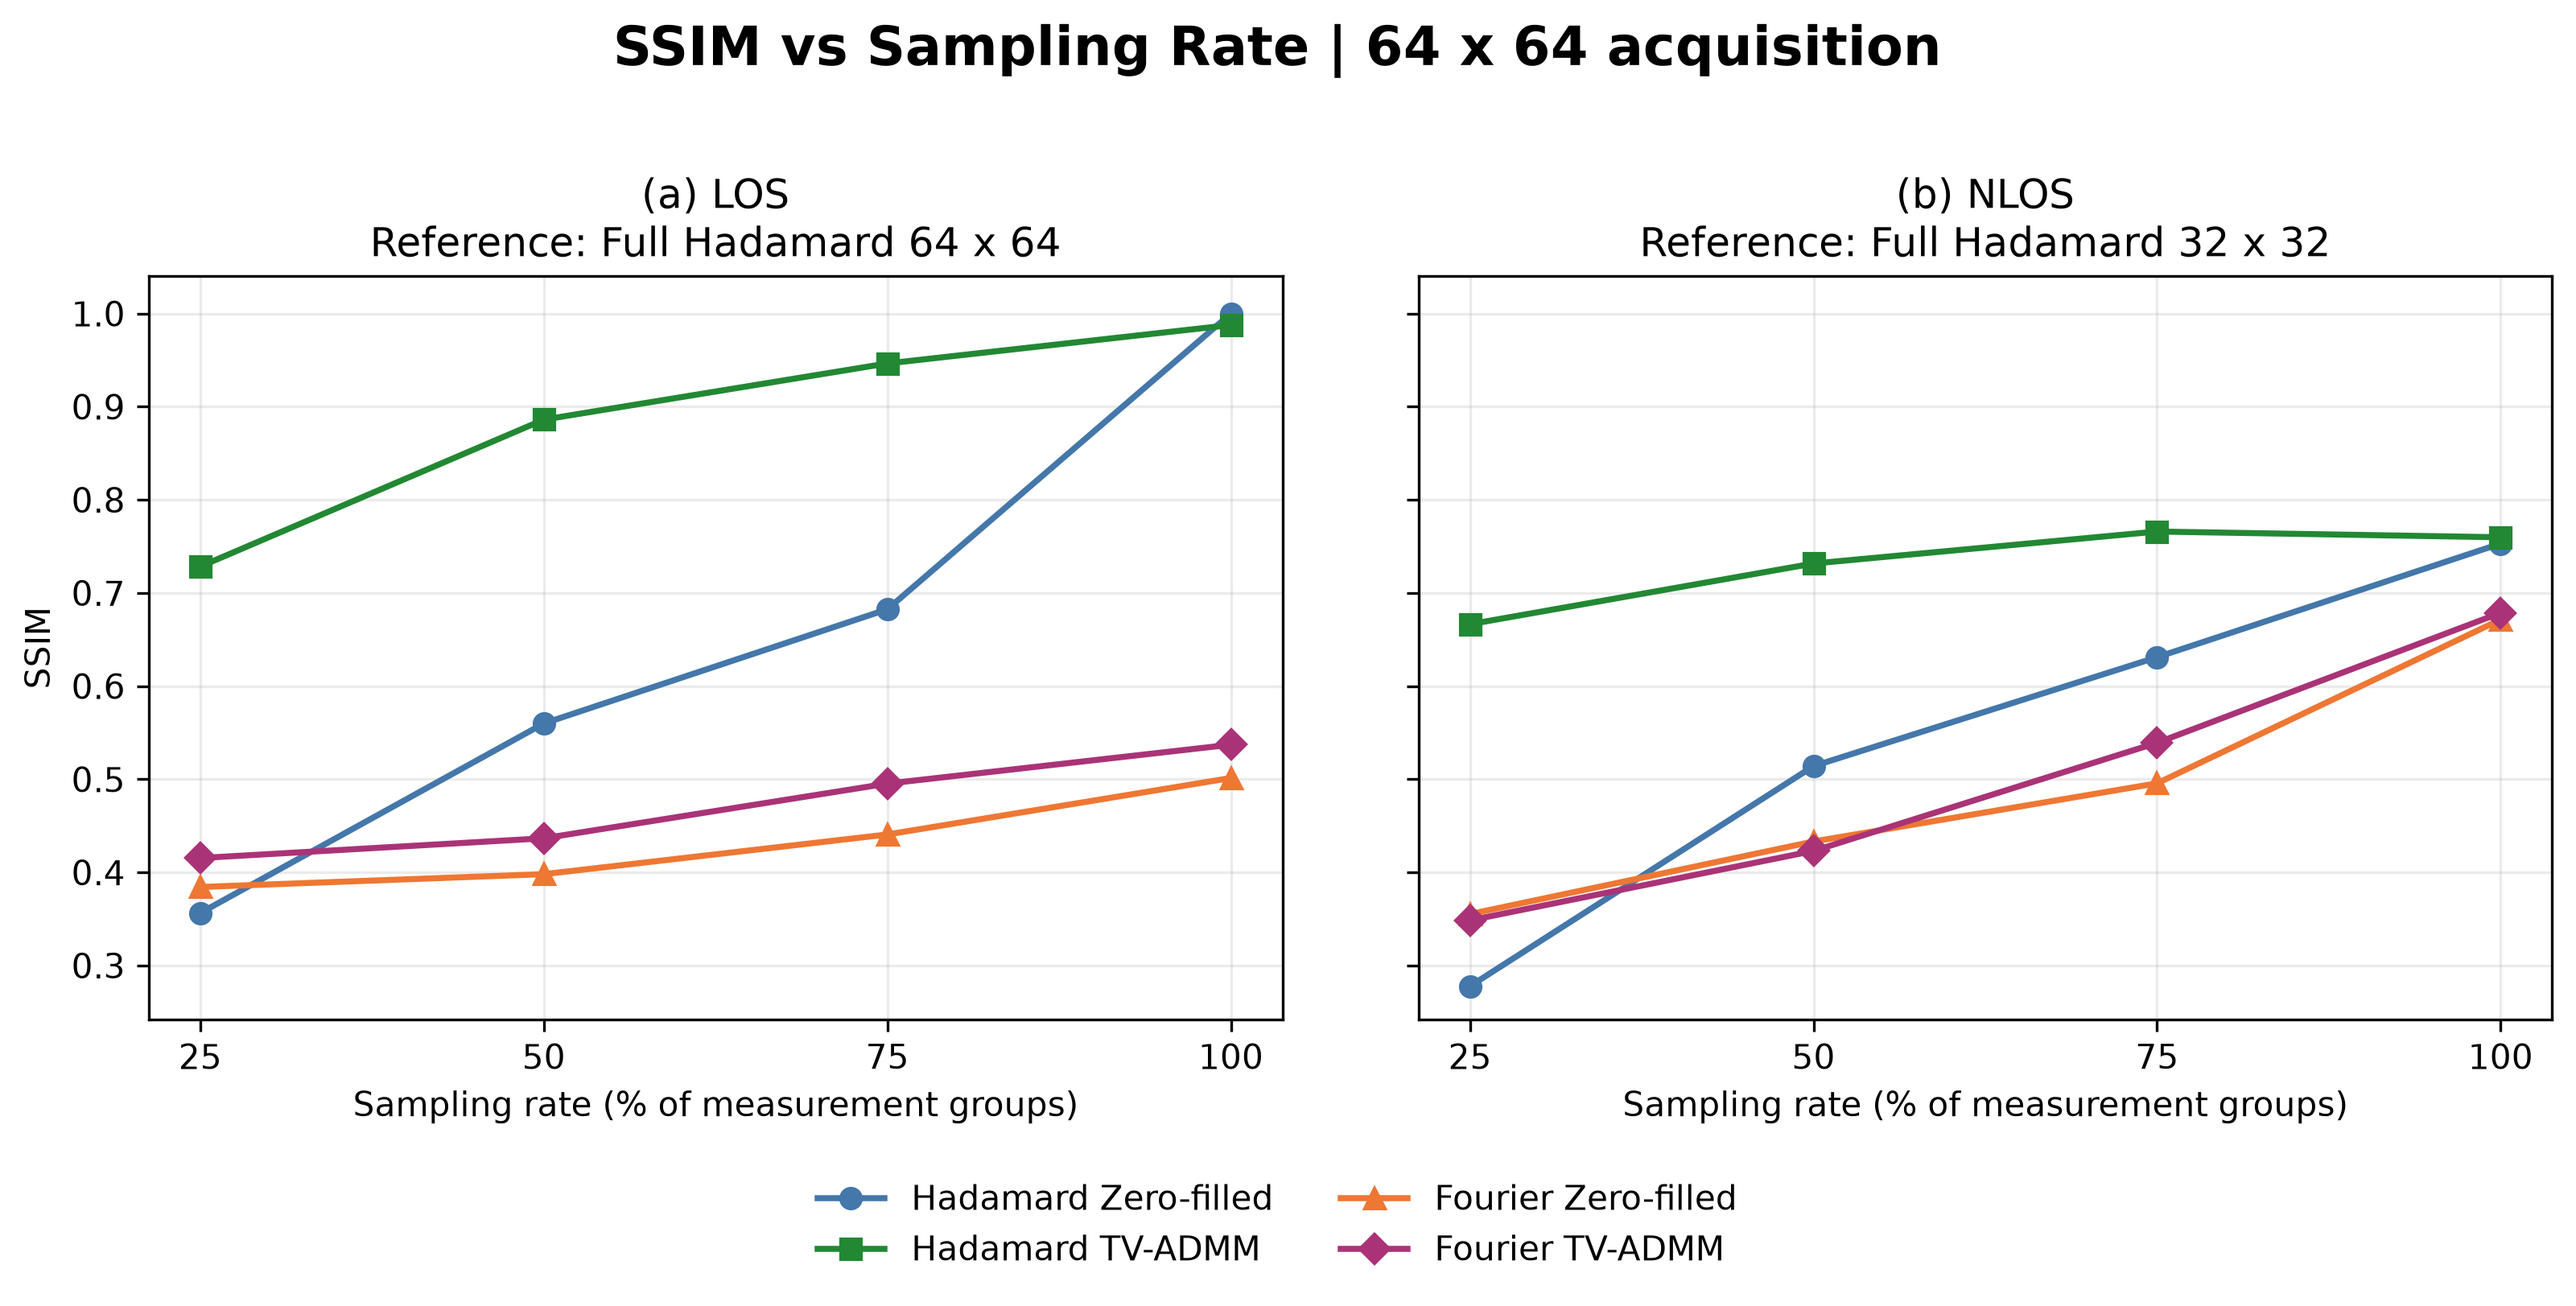
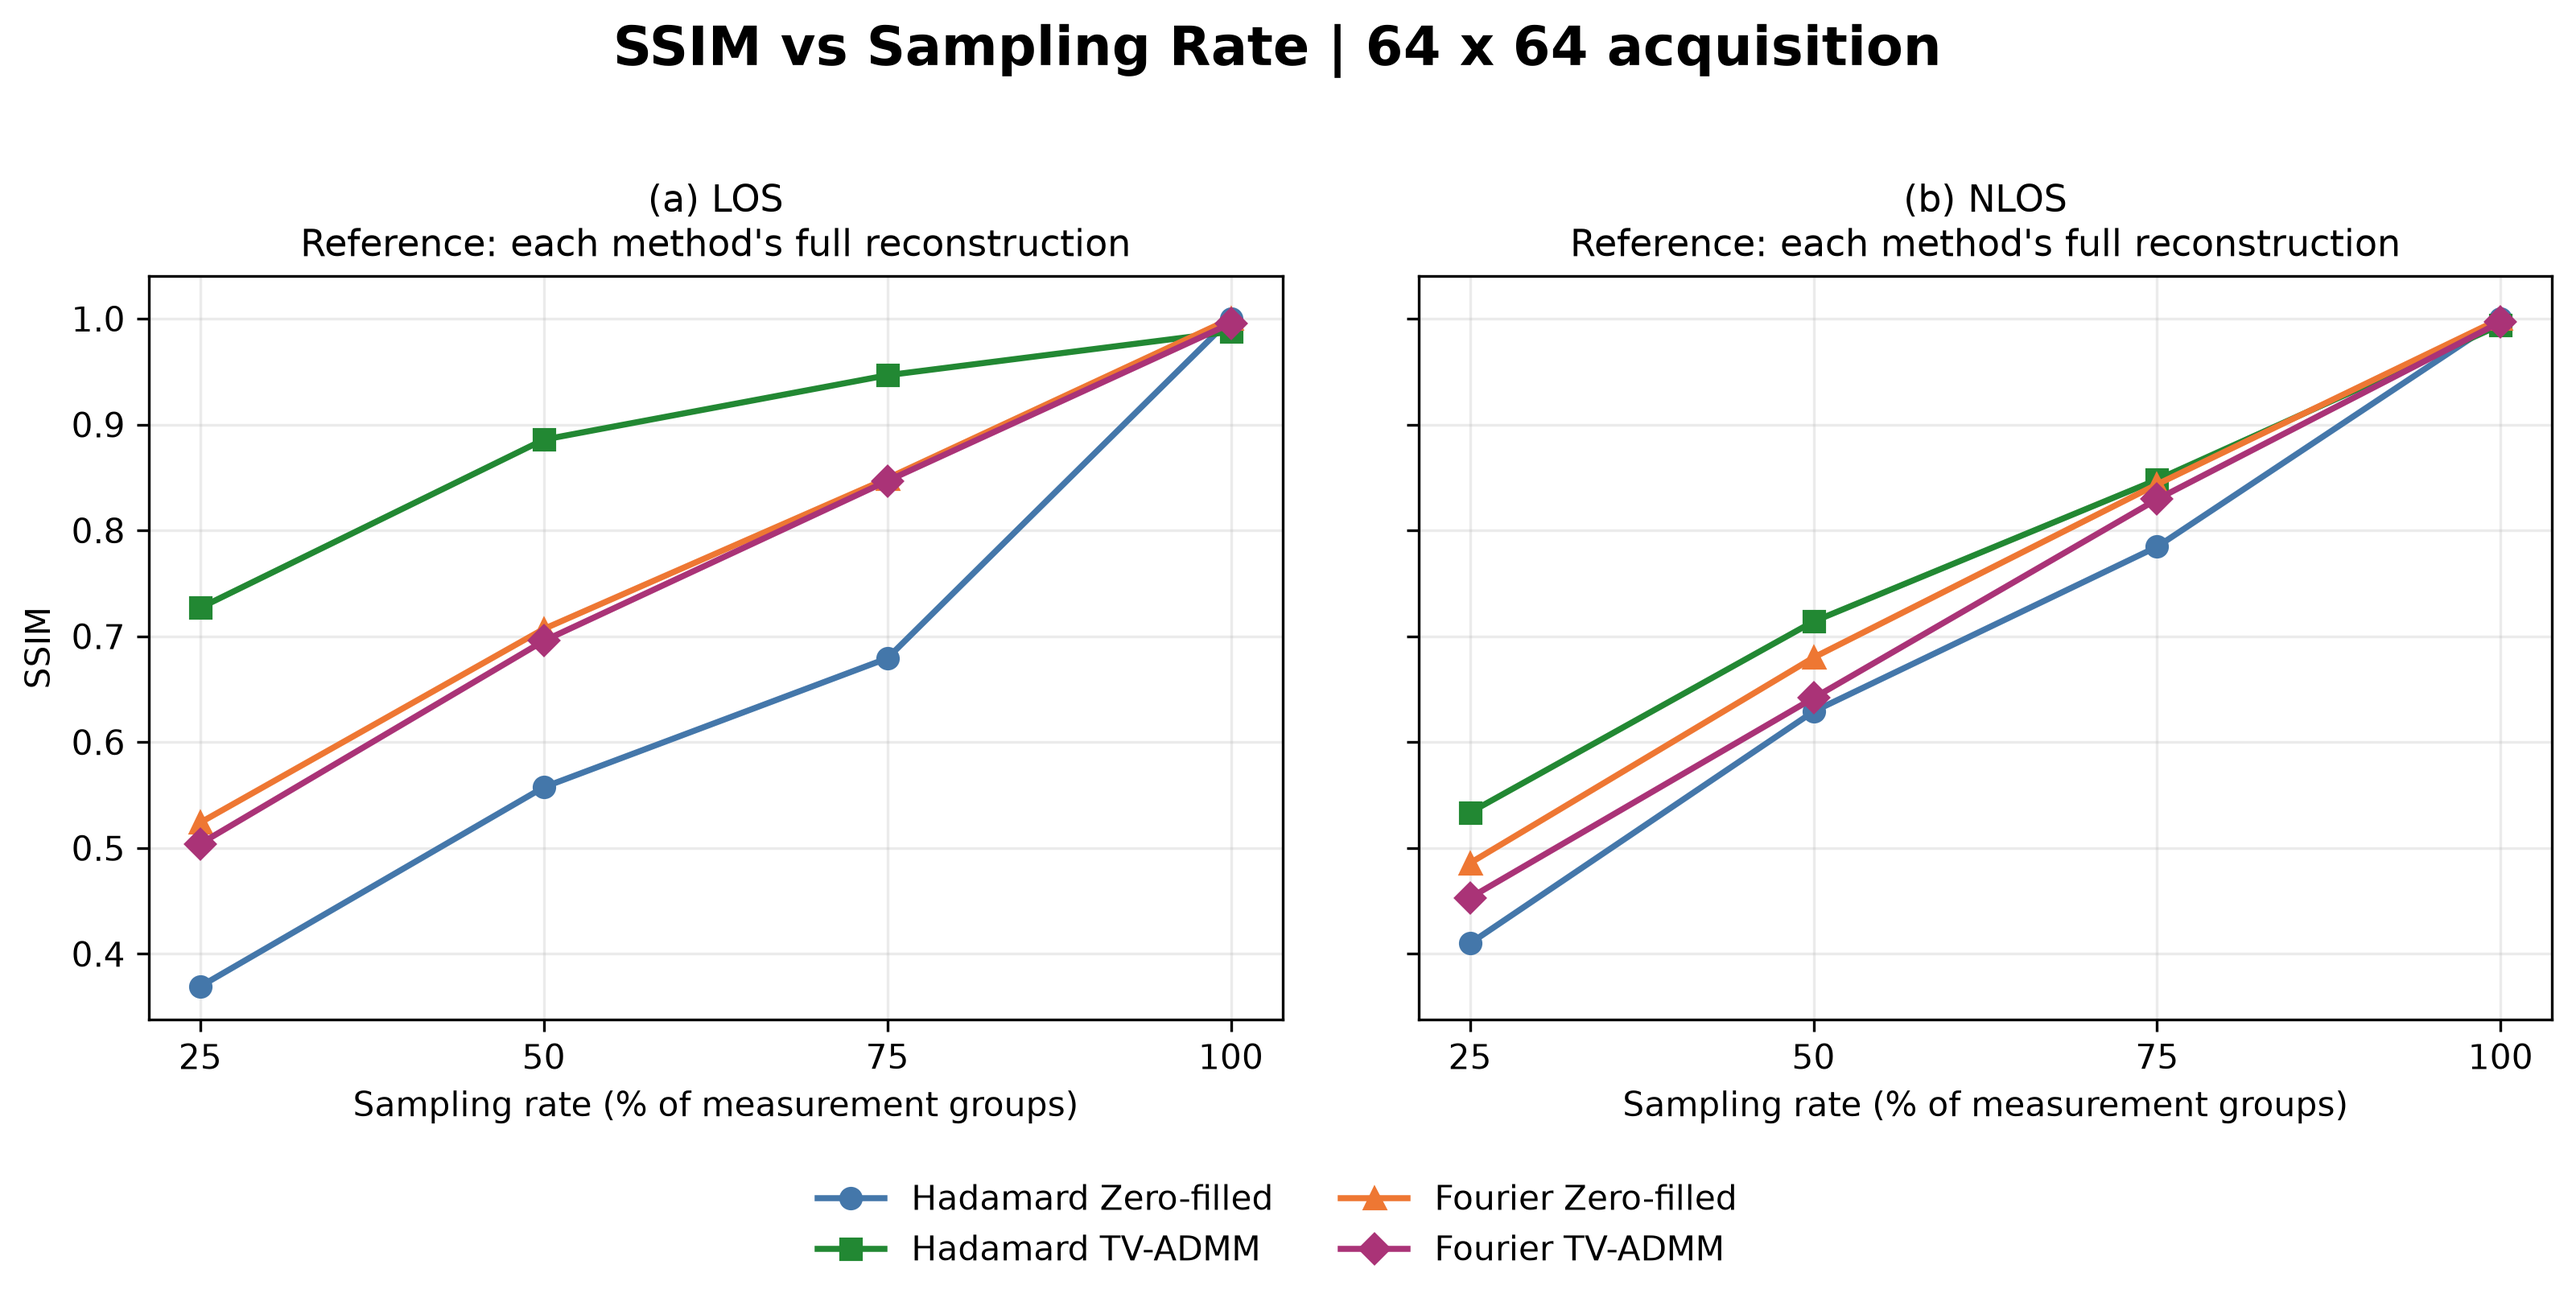
compress ssim analyze

diff --git a/analyze/compressive_ssim_analysis.py b/analyze/compressive_ssim_analysis.py
@@ -1,8 +1,7 @@
-"""SSIM of 64x64 compressive reconstructions against the validated references.
+"""SSIM against each method's own full-sampling reconstruction at 64x64.
 
-Use the existing full-reconstruction intensity calibration: fixed method gains,
-per-image background subtraction, and a shared reference-defined data range.
-NLOS images are evaluated on the 32x32 reference grid.
+Every sampling rate uses the same minimum and range from its full reference.
+Scores measure agreement with that reconstruction, not ground-truth accuracy.
 """
 
 import matplotlib
@@ -18,36 +17,21 @@ from compressive_imaging_comparison import (
     SAMPLING_RATES,
     reconstruct_series,
 )
-from experiment_config import BACKGROUND_ROI, REPORT_DIR, SCENES, SIGNAL_ROI
-from image_similarity_analysis import (
-    REFERENCE_SIZE,
-    calibrated_image,
-    load_image,
-    region_mean,
-)
+from experiment_config import DATASETS, IMAGE_DATA, REPORT_DIR, SCENES
 
 
 def evaluate_scene(scene):
-    reference_size = REFERENCE_SIZE[scene]
-    anchor = load_image(scene, "Hadamard", reference_size)
-    reference = calibrated_image(anchor, 1.0, reference_size)
-    low, span = reference.min(), np.ptp(reference)
-    reference = (reference - low) / span
-    reference_contrast = region_mean(anchor, SIGNAL_ROI) - region_mean(
-        anchor, BACKGROUND_ROI
-    )
     scores = {}
     for method in METHODS:
-        calibration = load_image(scene, method, reference_size)
-        gain = reference_contrast / (
-            region_mean(calibration, SIGNAL_ROI)
-            - region_mean(calibration, BACKGROUND_ROI)
-        )
+        filename, key = IMAGE_DATA[method]
+        with np.load(DATASETS[scene][method][RESOLUTION] / filename) as data:
+            reference = data[key]
+        low, span = reference.min(), np.ptp(reference)
+        reference = (reference - low) / span
         images, counts = reconstruct_series(scene, method)
         values = np.empty((len(SAMPLING_RATES), 2))
         for index, (pair, (count, total)) in enumerate(zip(images, counts)):
             for column, image in enumerate(pair):
-                image = calibrated_image(image, gain, reference_size)
                 image = (image - low) / span
                 values[index, column] = structural_similarity(
                     reference,
@@ -90,11 +74,10 @@ def main():
                 markersize=6,
                 label=f"{method} {reconstruction}",
             )
-        reference_size = REFERENCE_SIZE[scene]
         ax.set_title(
             f"{panel} {SCENES[scene]}\n"
-            f"Reference: Full Hadamard {reference_size} x {reference_size}",
-            fontsize=12,
+            "Reference: each method's full reconstruction",
+            fontsize=11,
         )
         ax.set_xlabel("Sampling rate (% of measurement groups)")
         ax.set_xticks(rates[order])
